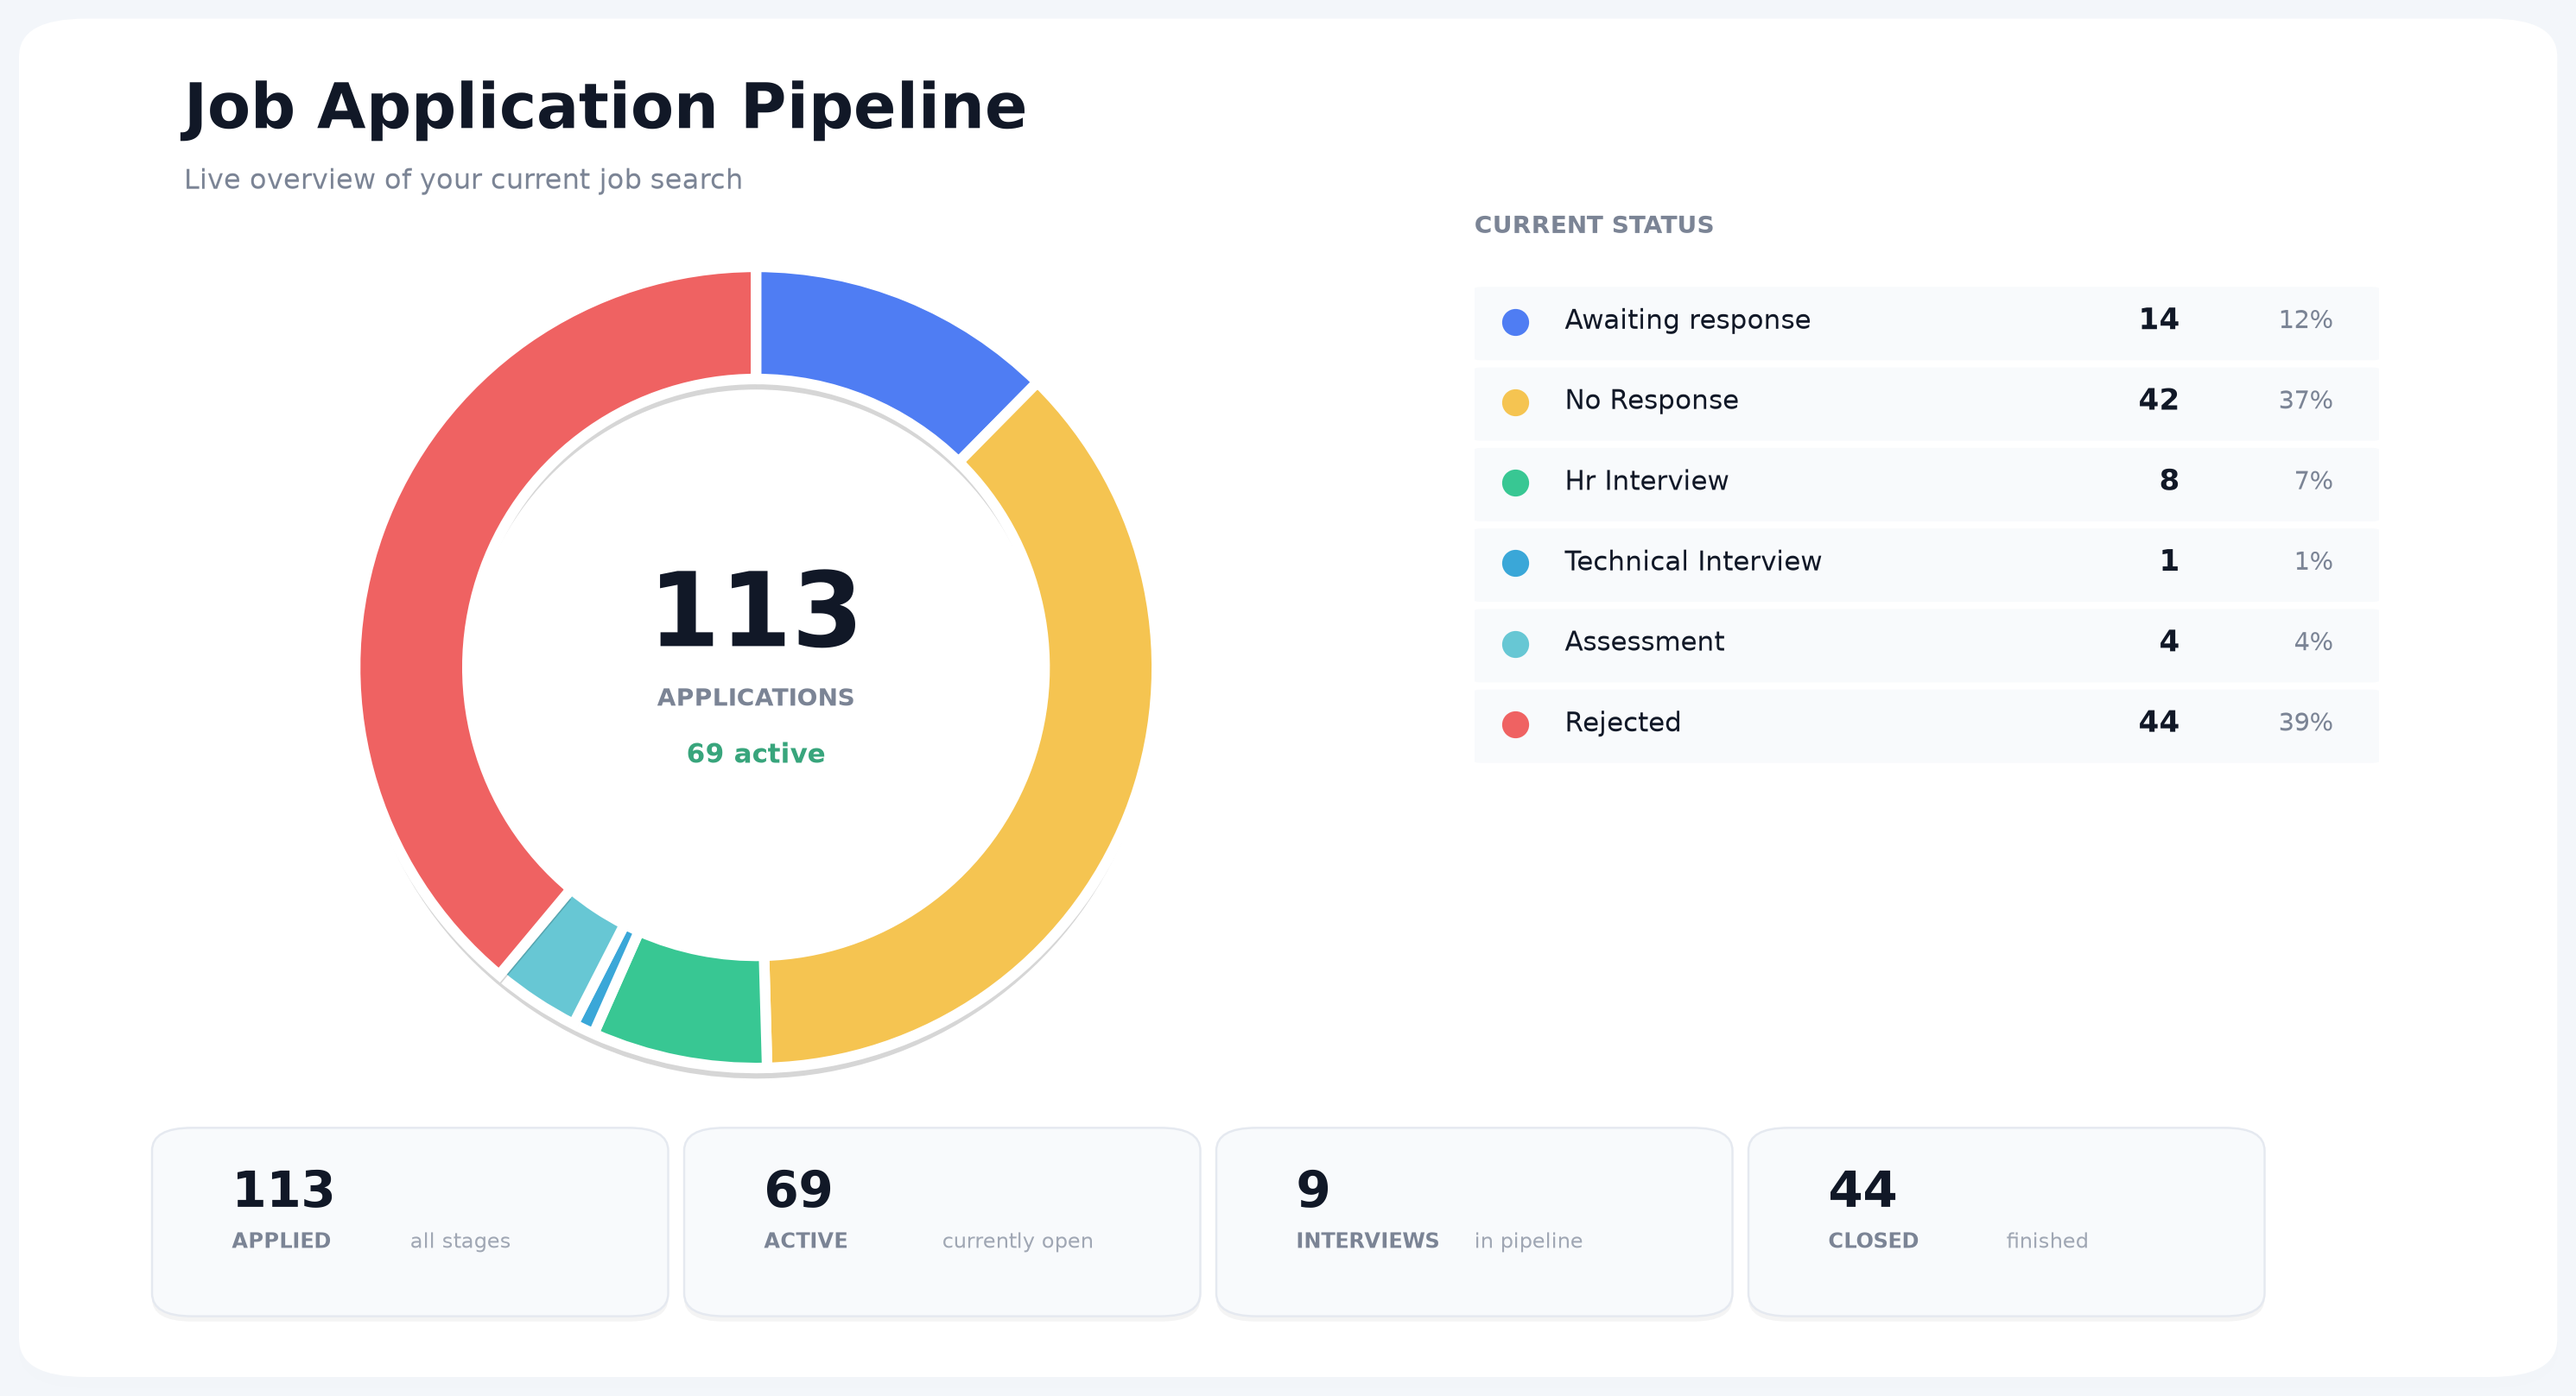
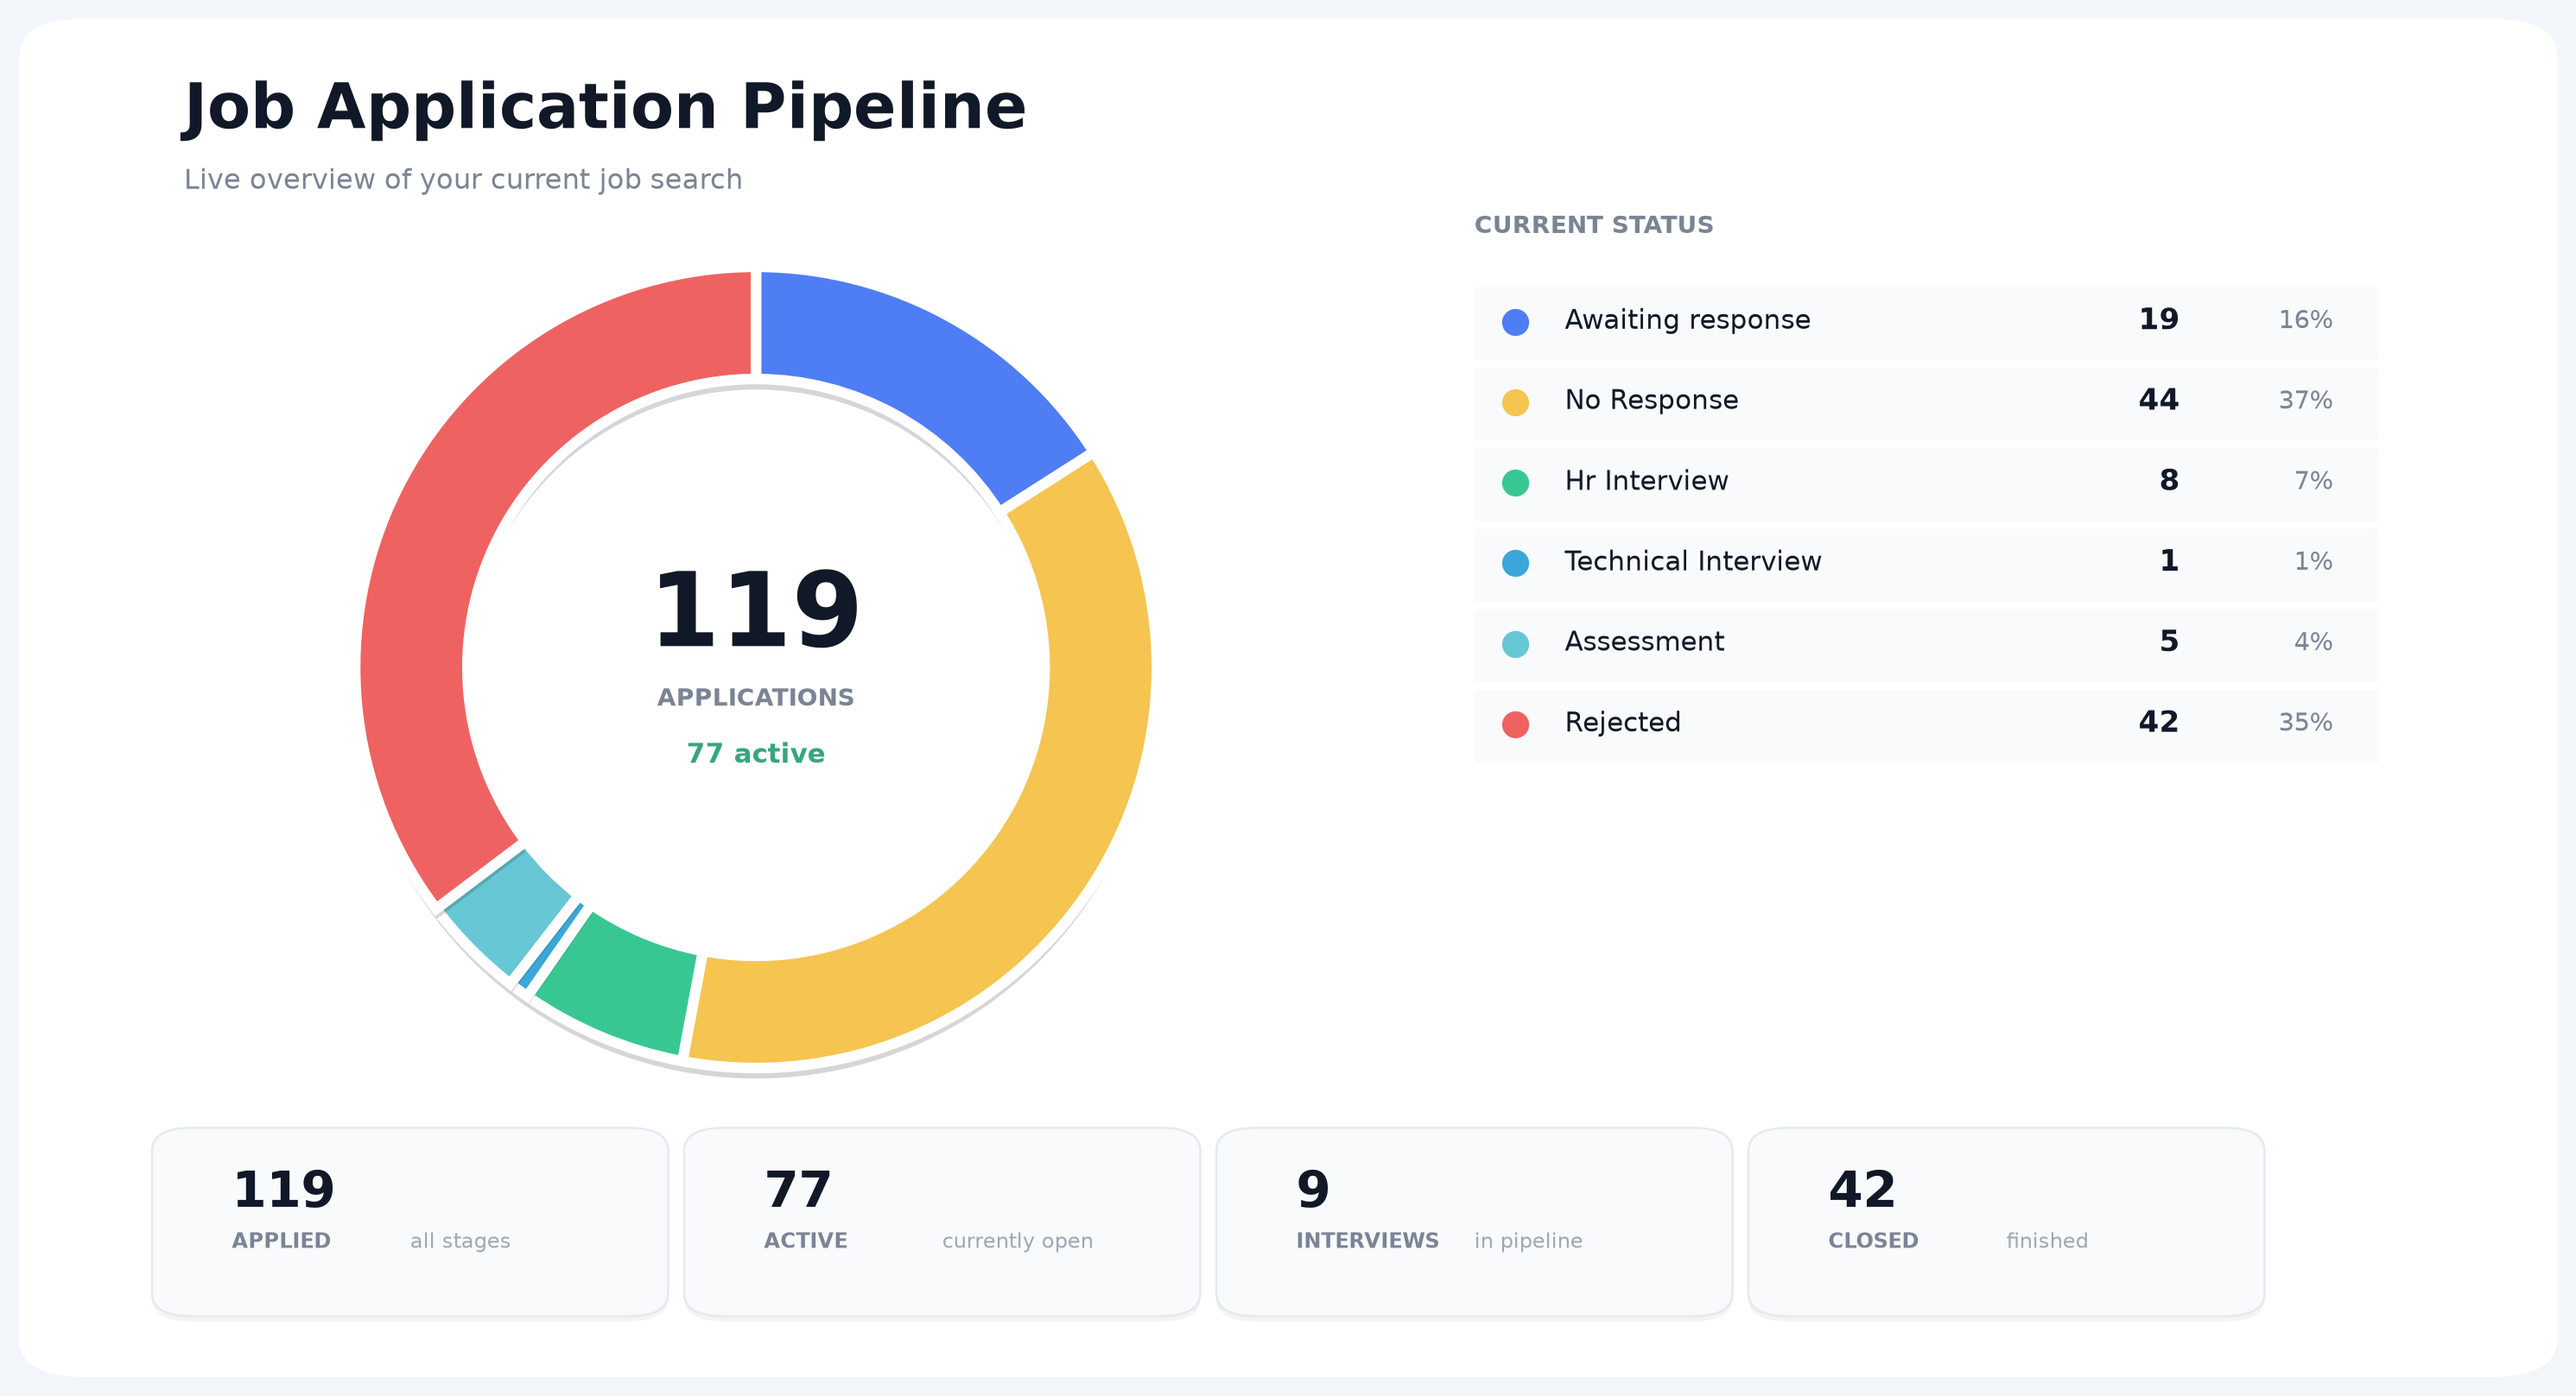
fixing bugs

diff --git a/job_tracker/services/ingestion.py b/job_tracker/services/ingestion.py
@@ -75,7 +75,8 @@ def reclassify_emails(session, classifier, no_response_days=14, now=None) -> tup
     """Re-run classification for all emails already stored locally.
 
     Gmail is not contacted and message IDs are not changed. Application
-    associations for genuine job emails remain stable. Messages that the
+    Associations are rebuilt for genuine job emails so two roles in the same
+    Gmail thread can become separate applications. Messages that the
     classifier identifies as non-job mail are detached from applications, and
     applications with no genuine job emails left are removed. The application
     fields derived from the remaining classifications are then rebuilt.
@@ -86,6 +87,7 @@ def reclassify_emails(session, classifier, no_response_days=14, now=None) -> tup
     attached_application_ids = {
         email.application_id for email in emails if email.application_id is not None
     }
+    pending_apps = {}
     changed = 0
     for email in emails:
         result = classifier.classify(
@@ -103,11 +105,29 @@ def reclassify_emails(session, classifier, no_response_days=14, now=None) -> tup
             email.application_id,
         )
         if result.is_job_related:
+            company = result.company or email.company or "Unknown company"
+            position = result.position or email.position or "Unknown position"
+            app_key = (normalize(company), normalize(position))
+            app = pending_apps.get(app_key) or find_application(
+                session, company, position, email.gmail_thread_id
+            )
+            if app is None:
+                app = Application(
+                    company=company,
+                    position=position,
+                    company_key=normalize(company),
+                    position_key=normalize(position),
+                    source=email.sender,
+                )
+                session.add(app)
+                session.flush()
+            pending_apps[app_key] = app
+            email.application = app
             new_values = (
                 result.event_type if result.event_type else None,
                 result.company,
                 result.position,
-                email.application_id,
+                app.id,
             )
         else:
             # Keep the raw email row for local audit/reclassification, but do

diff --git a/job_tracker/commands.py b/job_tracker/commands.py
@@ -21,6 +21,7 @@ def authenticate_gmail(settings) -> None:
 def sync_gmail(settings, session_factory) -> None:
     with session_factory() as session:
         latest_email = session.scalar(select(func.max(Email.sent_at)))
+        existing_message_ids = set(session.scalars(select(Email.gmail_message_id)))
     if latest_email and latest_email.tzinfo is None:
         latest_email = latest_email.replace(tzinfo=timezone.utc)
     client = GmailClient.from_credentials(authenticate(settings.credentials_file, settings.token_file))
@@ -33,12 +34,17 @@ def sync_gmail(settings, session_factory) -> None:
     for index, query in enumerate(queries, 1):
         print(f"Searching Gmail ({index}/{len(queries)})...", flush=True)
         ids.update(client.search_message_ids(query, settings.gmail_max_results))
-    print(f"Found {len(ids)} candidate messages.", flush=True)
+    new_ids = ids - existing_message_ids
+    print(
+        f"Found {len(ids)} candidate messages ({len(new_ids)} new; "
+        f"{len(ids) - len(new_ids)} already stored).",
+        flush=True,
+    )
     messages = []
-    for index, message_id in enumerate(ids, 1):
+    for index, message_id in enumerate(new_ids, 1):
         messages.append(client.fetch_message(message_id))
-        progress("Fetching messages", index, len(ids))
-    if ids:
+        progress("Fetching new messages", index, len(new_ids))
+    if new_ids:
         print(flush=True)
     session = session_factory()
     try:
@@ -47,7 +53,7 @@ def sync_gmail(settings, session_factory) -> None:
         refresh_statuses(session, settings.no_response_days)
     finally:
         session.close()
-    print(f"Synchronized {len(ids)} candidate messages.")
+    print(f"Synchronized {len(new_ids)} new messages.")
 
 
 def reclassify_stored_emails(settings, session_factory) -> None:

diff --git a/tests/test_reclassification.py b/tests/test_reclassification.py
@@ -85,3 +85,48 @@ def test_reclassify_detaches_stored_noise_from_job_pipeline():
         assert email.classification is None
         assert email.application_id is None
         assert session.query(Application).count() == 0
+
+
+def test_reclassify_splits_existing_same_thread_roles():
+    factory = make_session_factory("sqlite:///:memory:")
+    messages = [
+        GmailMessage(
+            "1",
+            "same-thread",
+            "recruiting@mckinsey.com",
+            "me@example.com",
+            "Your McKinsey application",
+            datetime(2026, 8, 1, tzinfo=timezone.utc),
+            "Dear Vyron, Thank you for your interest in the Associate role at McKinsey.",
+        ),
+        GmailMessage(
+            "2",
+            "same-thread",
+            "recruiting@mckinsey.com",
+            "me@example.com",
+            "Your McKinsey application",
+            datetime(2026, 8, 2, tzinfo=timezone.utc),
+            "Dear Vyron, Thank you for your interest in the Junior Associate role at McKinsey.",
+        ),
+    ]
+
+    class LegacyClassifier:
+        def classify(self, email: EmailInput) -> ClassificationResult:
+            return ClassificationResult(
+                True,
+                "Mckinsey",
+                "at McKinsey",
+                "application_received",
+                1.0,
+            )
+
+    with factory() as session:
+        ingest_messages(session, messages, LegacyClassifier())
+        assert session.query(Application).count() == 1
+
+        reclassify_emails(session, RuleBasedClassifier())
+
+        assert sorted(app.position for app in session.query(Application).all()) == [
+            "Associate",
+            "Junior Associate",
+        ]

diff --git a/tests/test_matching.py b/tests/test_matching.py
@@ -27,6 +27,35 @@ def test_same_company_different_roles_remain_separate():
         assert len(session.query(Application).all()) == 2
 
 
+def test_different_roles_in_one_thread_remain_separate():
+    factory = make_session_factory("sqlite:///:memory:")
+    first = GmailMessage(
+        "1",
+        "same-thread",
+        "recruiting@mckinsey.com",
+        "me@example.com",
+        "Your McKinsey application",
+        datetime.now(timezone.utc),
+        "Dear Vyron, Thank you for your interest in the Associate role at McKinsey.",
+    )
+    second = GmailMessage(
+        "2",
+        "same-thread",
+        "recruiting@mckinsey.com",
+        "me@example.com",
+        "Your McKinsey application",
+        datetime.now(timezone.utc),
+        "Dear Vyron, Thank you for your interest in the Junior Associate role at McKinsey.",
+    )
+
+    with factory() as session:
+        ingest_messages(session, [first, second], RuleBasedClassifier())
+        assert sorted(app.position for app in session.query(Application).all()) == [
+            "Associate",
+            "Junior Associate",
+        ]
+
+
 def test_existing_unknown_position_is_reused_on_later_sync():
     factory = make_session_factory("sqlite:///:memory:")
     first = GmailMessage("1", "t1", "emails@efinancialcareers.com", "me@example.com", "Your application", datetime.now(timezone.utc), "Your application has been received")

diff --git a/tests/test_rules.py b/tests/test_rules.py
@@ -10,6 +10,17 @@ def test_technical_interview(): assert classify("We were impressed with your pro
 def test_german_rejection(): assert classify("Leider können wir Ihre Bewerbung im weiteren Auswahlverfahren nicht berücksichtigen.").event_type == "rejection"
 
 
+def test_role_before_role_at_company_is_extracted_without_company_suffix():
+    associate = classify(
+        "Dear Vyron, Thank you for your interest in the Associate role at McKinsey."
+    )
+    junior = classify(
+        "Dear Vyron, Thank you for your interest in the Junior Associate role at McKinsey."
+    )
+    assert associate.position == "Associate"
+    assert junior.position == "Junior Associate"
+
+
 def test_rejection_with_another_candidate_is_detected():
     assert (
         classify(

diff --git a/job_tracker/classifier/rules.py b/job_tracker/classifier/rules.py
@@ -370,6 +370,9 @@ def extract_company(sender: str, text: str) -> str | None:
 
 def extract_position(text: str) -> str | None:
     patterns = (
+        r"(?:interest in|applied for|application for|apply for|for)\s+(?:the|a|an)\s+([^\n.!?]{2,100}?)\s+(?:role|position|job)\b",
+        r"(?:the|a|an)\s+([^\n.!?]{2,100}?)\s+(?:role|position|job)\b",
+        r"(?:role|position|job)\s+(?:of|as)\s+([^\n.!?]{2,100})",
         r"(?:position|role|job|stelle)[:\s]+([^\n.!?]{3,100})",
         r"for the\s+([^\n.!?]{3,100})\s+position",
         r"für die Stelle als\s+([^\n.!?]{3,100})",

diff --git a/README.md b/README.md
@@ -59,7 +59,7 @@ python -m job_tracker chart --output reports/application_status.png
 
 `sync` searches likely recruiting terms in Gmail, including Sent mail, fetches only matching messages, stores Gmail message IDs for idempotency, and associates messages using thread ID and normalized company/position. The first sync checks Gmail history; later syncs use the newest stored email timestamp and search only newer mail with a one-day overlap. Existing Gmail IDs are skipped, so the overlap is safe. Existing applications are updated when new messages arrive. The tracker also stores the latest recruiter-side contact email when available. Rule classification supports common English and German terms. `no_response` is derived after `NO_RESPONSE_DAYS` only when no later process event exists.
 
-`reclassify` applies the current local rules to every email body already stored in SQLite and recomputes application statuses. It does not access Gmail. Messages identified as newsletters, university/course notices, account/security mail, or other non-job mail are detached from applications; applications with no genuine job emails left are removed. The raw email rows remain local so the rules can be improved and rerun later.
+`reclassify` applies the current local rules to every email body already stored in SQLite and recomputes application statuses. It does not access Gmail. Messages identified as newsletters, university/course notices, account/security mail, or other non-job mail are detached from applications; applications with no genuine job emails left are removed. If one Gmail thread contains clearly different extracted roles, the roles are split into separate applications. The raw email rows remain local so the rules can be improved and rerun later.
 
 Supported statuses include `applied`, `no_response`, `hr_interview`, `technical_interview`, `assessment`, `final_interview`, `rejected`, `offer`, `withdrawn`, and `unknown`. Generic words such as `Stellenangebot` or `Jobangebote` are not treated as an employment offer.
 
